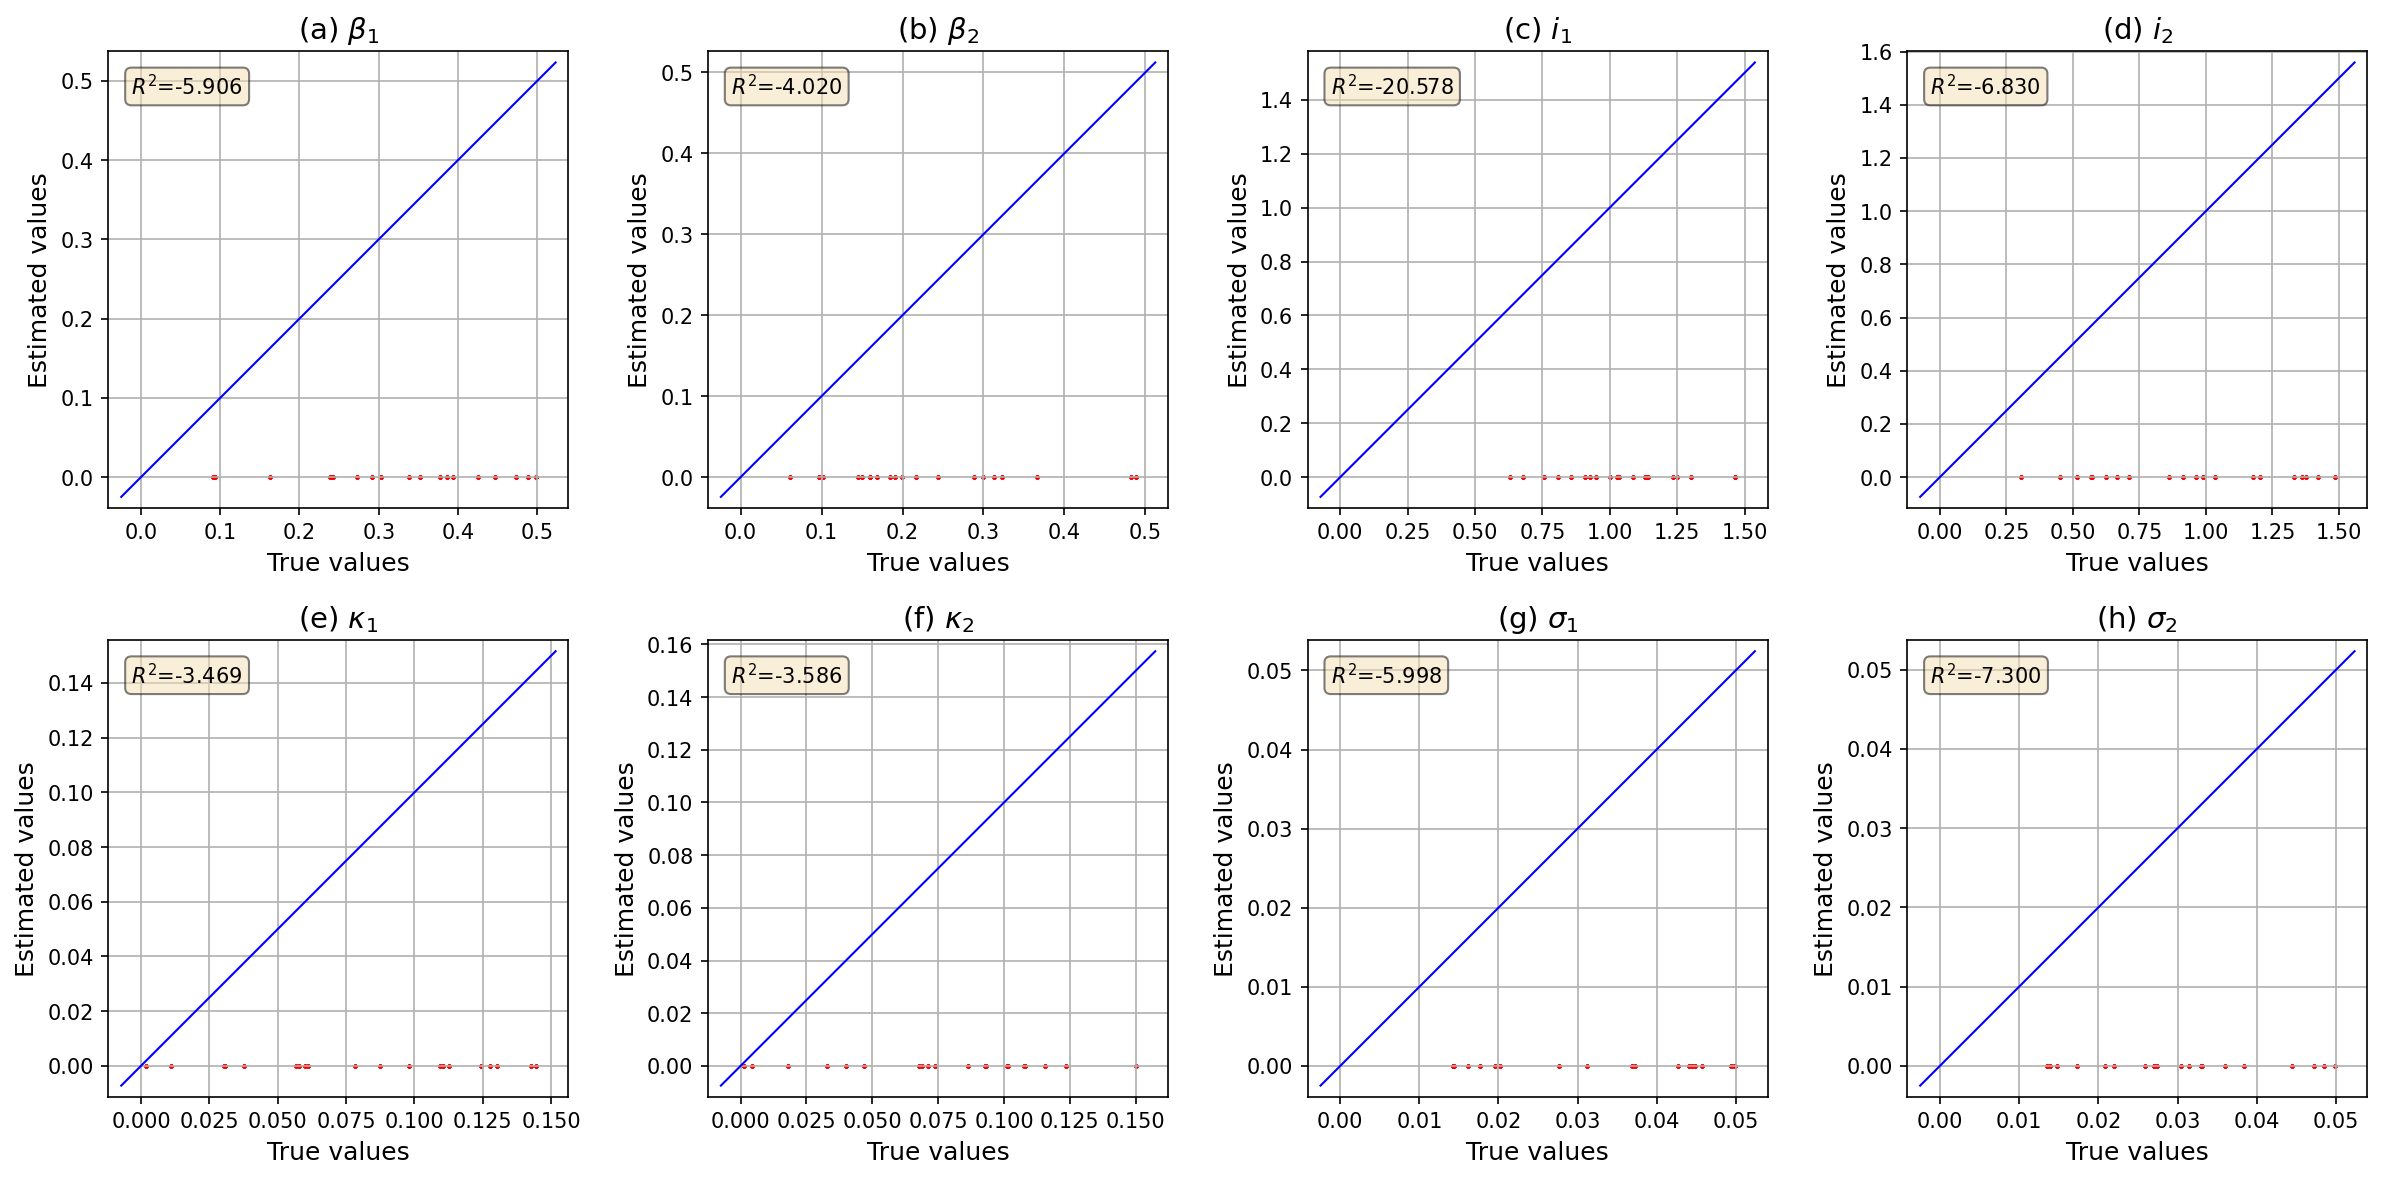
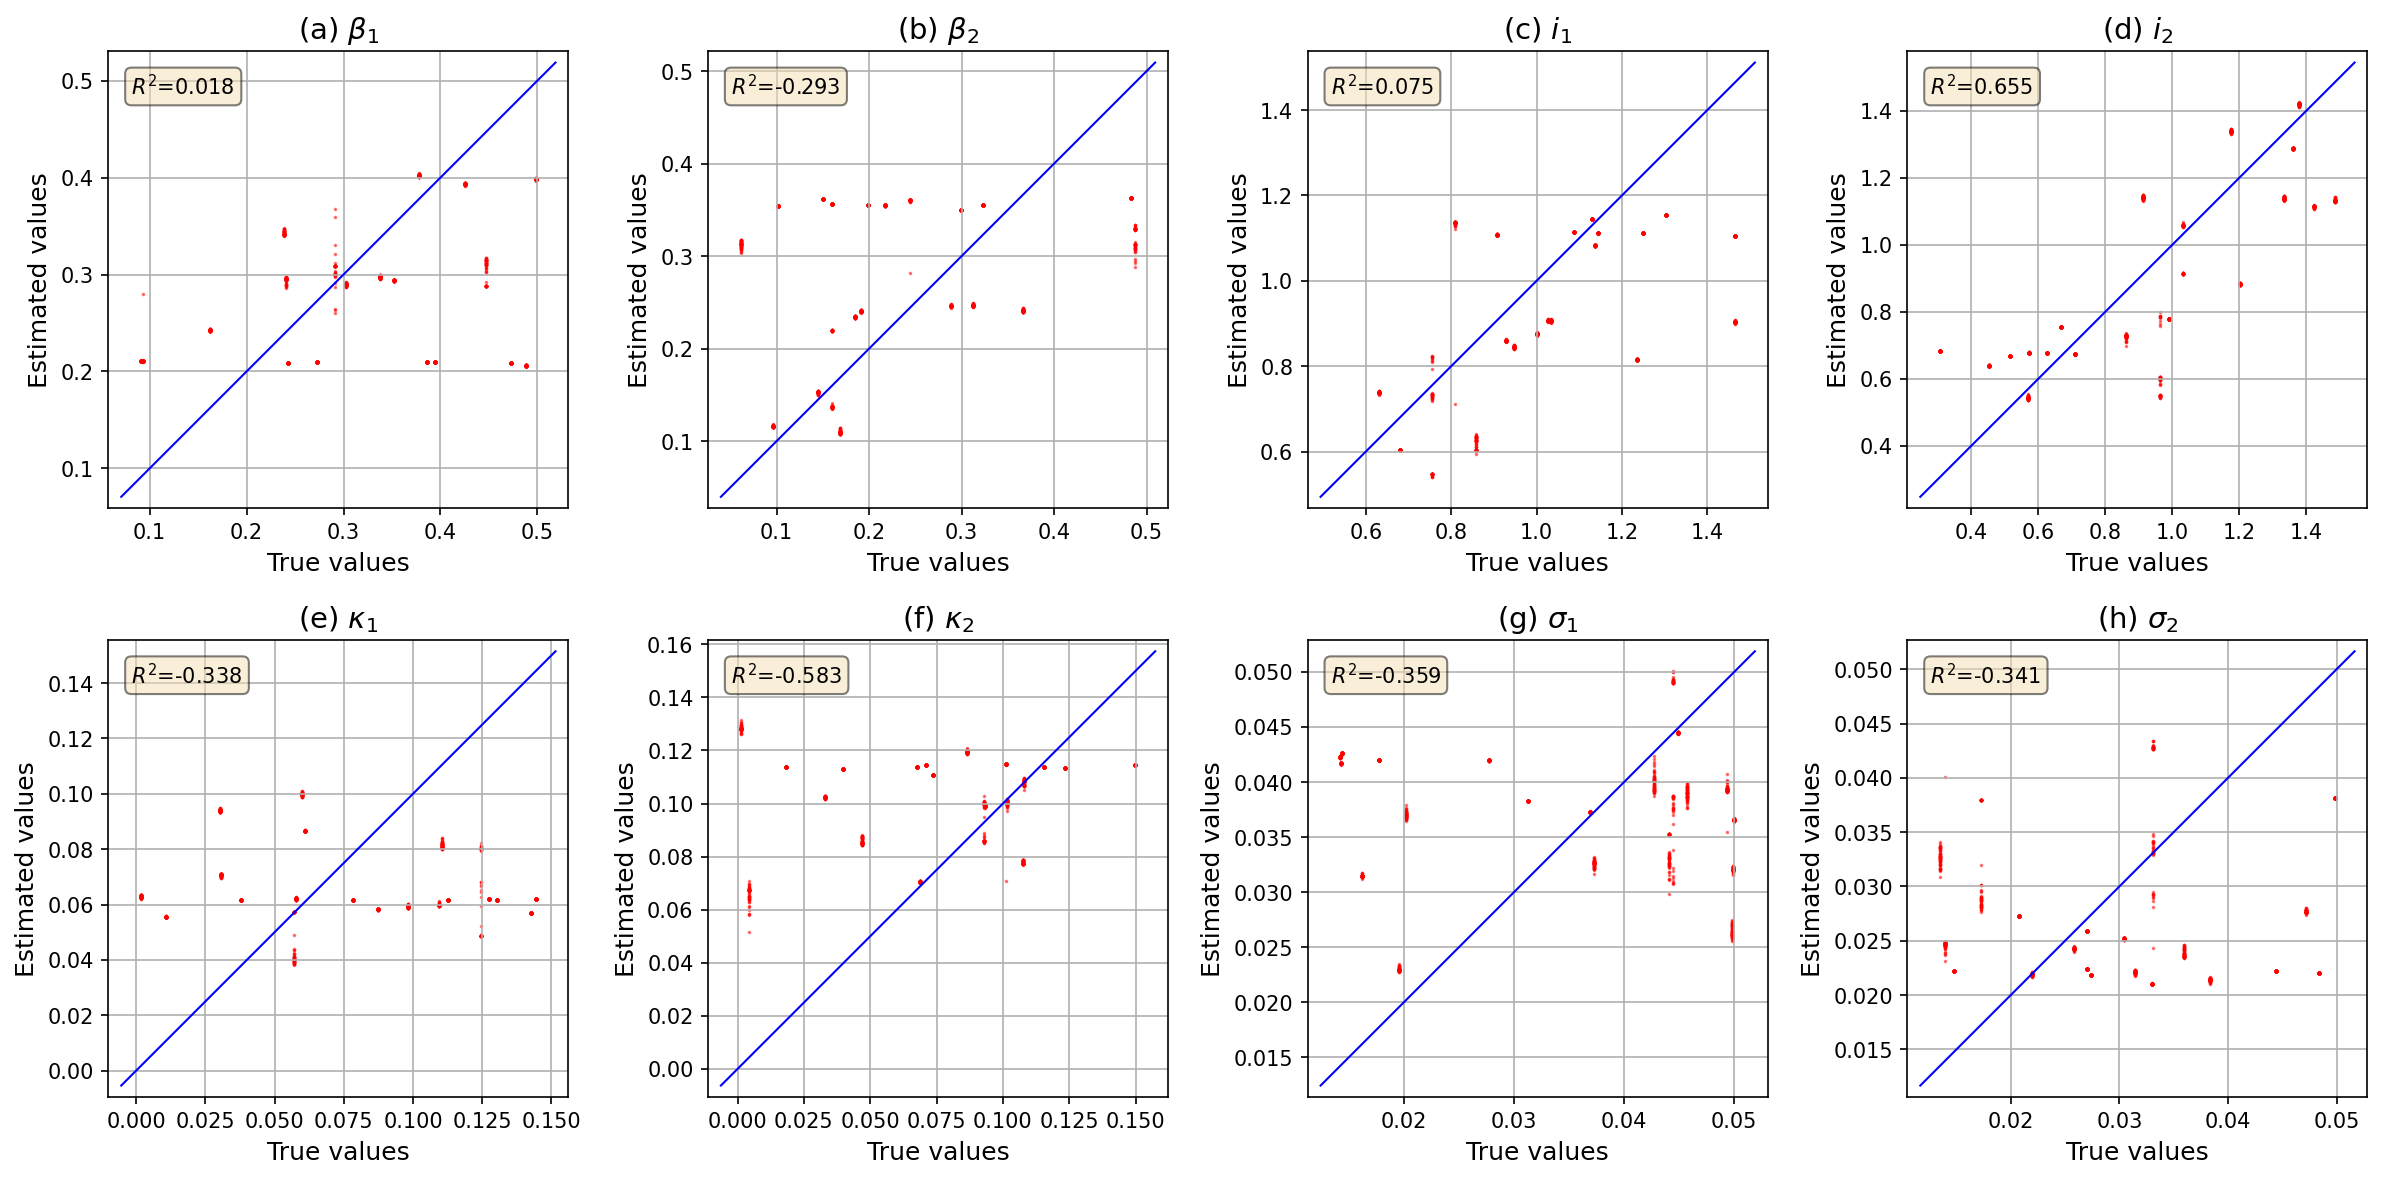
update contrastive loss and random fourier features

diff --git a/cjj_contrast/train_and_test.py b/cjj_contrast/train_and_test.py
@@ -47,60 +47,125 @@ class WeightedL1Loss(nn.Module):
 
 class SupConLoss(nn.Module):
     """
-    有监督对比学习损失 (Supervised Contrastive Loss)。
-    使用参数标签 y 来定义正样本对（相同参数配置的轨迹）和负样本对。
+    物理感知对比损失：参数越近，越倾向于拉近；
+    但动力学行为不同时，即使参数相同也推开（处理多稳态）
     """
-    def __init__(self, temperature: float = 0.1):
+    def __init__(self, temperature: float = 0.1, 
+                 param_scales: torch.Tensor = None,
+                 psd_weight: float = 0.3):
         super().__init__()
         self.temperature = temperature
-
-    def forward(self, features: torch.Tensor, labels: torch.Tensor) -> torch.Tensor:
+        self.psd_weight = psd_weight  # 功率谱特征的权重
+        
+        # 各参数的物理尺度（用于归一化距离）
+        # 例如：i∈[0,2], β∈[0,1], κ∈[0,0.2], σ∈[0,0.05]
+        self.register_buffer('param_scales', param_scales or torch.ones(1))
+        
+    def compute_kinematic_similarity(self, traj_i, traj_j):
+        """
+        计算两条轨迹的动力学相似度（0-1之间，1表示完全相同）
+        输入: [T, 4] 的轨迹 (phi1, v1, phi2, v2)
+        """
+        with torch.no_grad():  # 不梯度回传，作为软标签
+            # 1. 平均电压（Running/Trapped 态的关键区分）
+            v_mean_i = traj_i[:, [1, 3]].mean(dim=0)  # [v1_mean, v2_mean]
+            v_mean_j = traj_j[:, [1, 3]].mean(dim=0)
+            v_sim = torch.exp(-torch.norm(v_mean_i - v_mean_j) / 0.5)
+            
+            # 2. 功率谱密度相似度（Bursting/周期/混沌的区分）
+            # 使用周期图法快速估计PSD
+            psd_i = self._compute_psd(traj_i[:, [1, 3]])  # 基于电压
+            psd_j = self._compute_psd(traj_j[:, [1, 3]])
+            psd_sim = torch.exp(-torch.norm(psd_i - psd_j) / (torch.norm(psd_i) + 1e-8))
+            
+            # 3. 相位缠绕数（区分旋转与静止）
+            winding_i = self._compute_winding_number(traj_i[:, [0, 2]])
+            winding_j = self._compute_winding_number(traj_j[:, [0, 2]])
+            winding_sim = (winding_i == winding_j).float()
+            
+            # 综合相似度（可调整权重）
+            total_sim = 0.4 * v_sim + 0.4 * psd_sim + 0.2 * winding_sim
+            return total_sim
+    
+    def _compute_psd(self, voltage_signal):
+        """快速功率谱密度估计（使用FFT）"""
+        # voltage_signal: [T, 2]
+        T = voltage_signal.shape[0]
+        # Hann窗减少频谱泄漏
+        window = torch.hann_window(T, device=voltage_signal.device).unsqueeze(1)
+        signal = voltage_signal * window
+        
+        # FFT并计算功率谱
+        fft = torch.fft.rfft(signal, dim=0)
+        psd = torch.abs(fft)**2
+        # 只保留低频部分（约瑟夫森结动力学通常在特定频段）
+        return psd[:T//10].flatten()  # 取前10%频段
+    
+    def _compute_winding_number(self, phase_signal):
+        """计算相位缠绕数（检测 2π 跳变）"""
+        # phase_signal: [T, 2]
+        delta = torch.diff(phase_signal, dim=0)
+        # 检测 2π 跳变（考虑周期性）
+        jumps = torch.abs(delta) > torch.pi
+        winding = (delta / (2 * torch.pi)).sum(dim=0)
+        return torch.round(winding).abs()
+    
+    def forward(self, features: torch.Tensor, 
+                labels: torch.Tensor,
+                trajectories: torch.Tensor = None) -> torch.Tensor:
         """
         Args:
-            features: [batch_size, feature_dim] 特征向量
-            labels: [batch_size, n_params] 参数标签，用于判断正负样本对
-        Returns:
-            loss: 标量损失
+            features: [B, D] 嵌入特征
+            labels: [B, n_params] 参数标签
+            trajectories: [B, T, 4] 原始轨迹（用于计算动力学相似度）
         """
         device = features.device
         batch_size = features.shape[0]
         
-        # L2 归一化特征
         features = F.normalize(features, dim=1)
         
-        # 统一 label 形状为 [batch_size, n_params]
-        if labels.dim() > 2:
-            labels = labels.view(batch_size, -1)
-        elif labels.dim() == 2 and labels.shape[-1] == 1:
-            labels = labels.squeeze(-1)
-        
-        # 计算余弦相似度矩阵 [B, B]
-        similarity_matrix = torch.matmul(features, features.T) / self.temperature
-        
-        # 正样本 mask：参数完全相同的样本对
+        # 参数距离矩阵 [B, B]
         labels_i = labels.unsqueeze(1)  # [B, 1, n_params]
         labels_j = labels.unsqueeze(0)  # [1, B, n_params]
-        mask = torch.all(torch.abs(labels_i - labels_j) < 1e-6, dim=2).float().to(device)
+        
+        # 归一化参数距离（考虑各参数物理尺度）
+        param_diff = torch.abs(labels_i - labels_j) / self.param_scales.to(device)
+        param_dist = torch.norm(param_diff, dim=2)  # [B, B]
+        
+        # 软正样本权重：参数越近权重越高（高斯核）
+        # 但同时需要考虑动力学行为
+        if trajectories is not None:
+            # 计算动力学相似度矩阵（较慢，只在训练后期或每隔几步计算）
+            kin_sim = torch.zeros(batch_size, batch_size, device=device)
+            for i in range(batch_size):
+                for j in range(i+1, batch_size):
+                    sim = self.compute_kinematic_similarity(trajectories[i], trajectories[j])
+                    kin_sim[i, j] = sim
+                    kin_sim[j, i] = sim
+            
+            # 最终相似度权重：参数相近且动力学相似 -> 高权重正样本
+            # 参数相近但动力学不同（多稳态）-> 低权重（视为负样本）
+            mask_pos_weight = torch.exp(-param_dist / 0.1) * kin_sim
+        else:
+            # 退化为纯参数距离（训练初期使用，更快）
+            mask_pos_weight = torch.exp(-param_dist / 0.1)
+        
+        # 计算对比损失（Soft InfoNCE）
+        similarity_matrix = torch.matmul(features, features.T) / self.temperature
+        exp_sim = torch.exp(similarity_matrix)
         
         # 排除自身
-        mask_self = torch.eye(batch_size, device=device)
-        mask_pos = mask - mask_self
+        mask_self = torch.eye(batch_size, device=device).bool()
+        exp_sim = exp_sim.masked_fill(mask_self, 0)
         
-        # 计算 exp(similarity)，排除自身
-        exp_sim = torch.exp(similarity_matrix) * (1 - mask_self)
+        # 分子：加权正样本
+        pos_weighted = (exp_sim * mask_pos_weight).sum(dim=1)
         
-        # 分子：正样本的相似度之和
-        pos_sum = (exp_sim * mask_pos).sum(dim=1)
-        
-        # 分母：所有样本的相似度之和
+        # 分母：所有样本
         denom = exp_sim.sum(dim=1)
         
-        # 只对存在正样本的 anchor 计算损失
-        valid = (mask_pos.sum(dim=1) > 0).float()
-        loss = -torch.log(pos_sum / (denom + 1e-8) + 1e-8)
-        loss = (loss * valid).sum() / (valid.sum() + 1e-8)
-        
-        return loss
+        loss = -torch.log((pos_weighted + 1e-8) / (denom + 1e-8))
+        return loss.mean()
 
 
 def train(models, train_loader, optimizer=None, epochs: int = 10, 
@@ -202,6 +267,24 @@ def train(models, train_loader, optimizer=None, epochs: int = 10,
         avg_loss = total_loss / max(num_batches, 1)
         print(f"Epoch {epoch+1}/{epochs}, Average Loss: {avg_loss:.4f}")
         wandb.log({"train/regression_loss": avg_loss, "epoch": epochs + epoch})
+    
+    # 训练结束后绘制训练集上的参数预测对比图
+    extractor.eval()
+    predictor.eval()
+    train_preds = []
+    train_trues = []
+    with torch.no_grad():
+        for x, y in tqdm(train_loader, desc="Collecting train predictions"):
+            x = x.to(device)
+            features = extractor(x)
+            preds = predictor(features)
+            train_preds.append(preds.cpu())
+            train_trues.append(y.cpu())
+    
+    train_preds = torch.cat(train_preds, dim=0).numpy()
+    train_trues = torch.cat(train_trues, dim=0).numpy()
+    train_fig = plot_parameter_predictions(train_preds, train_trues, save_path="train_parameter_predictions.png")
+    wandb.log({"train_parameter_predictions": wandb.Image(train_fig)})
     
     return extractor, predictor
 

diff --git a/cjj_contrast/models.py b/cjj_contrast/models.py
@@ -47,6 +47,31 @@ class PositionalEncoding(nn.Module):
         return self.dropout(x)
 
 
+class FourierFeatureEncoder(nn.Module):
+    def __init__(self, n_frequencies=32):
+        super().__init__()
+        
+        # 对相位变量使用随机傅里叶特征
+        self.B = (torch.randn(2, n_frequencies) * 2 * torch.pi).cuda()  # 2个相位
+        
+    def forward(self, traj):
+        phi = traj[..., [0, 2]].cuda()  # phi1, phi2
+        v = traj[..., [1, 3]].cuda()    # v1, v2
+        
+        # print(traj.shape)
+        # print(phi.shape)
+        
+        # Fourier嵌入: [sin(2π B phi), cos(2π B phi)]
+        mul = phi @ self.B
+        phi_proj = torch.cat([torch.sin(mul), 
+                              torch.cos(mul)], dim=-1)
+        
+        # print(phi_proj.shape)
+        # print(torch.cat([phi_proj, v], dim=-1).shape)
+        
+        # 与电压拼接后送入Transformer
+        return torch.cat([phi_proj, v], dim=-1)
+
 class FeatureExtractor(nn.Module):
     """
     FeatureExtractor
@@ -70,9 +95,10 @@ class FeatureExtractor(nn.Module):
 
         # Part 1: Transformer Encoder with Positional Encoding
         # 输入投影层：将 in_dim 映射到 hidden_dim
-        self.conv1 = nn.Conv1d(4, in_dim, kernel_size=3, stride=2, padding=0)
-        self.bn = nn.BatchNorm1d(in_dim)
-        self.input_projection = nn.Linear(in_dim, hidden_dim)
+        self.fourier_feature = FourierFeatureEncoder().cuda()
+        self.conv1 = nn.Conv1d(66, in_dim, kernel_size=3, stride=2, padding=0).cuda()
+        self.bn = nn.BatchNorm1d(in_dim).cuda()
+        self.input_projection = nn.Linear(in_dim, hidden_dim).cuda()
         
         # 位置编码
         self.pos_encoder = PositionalEncoding(hidden_dim, max_len=5000, dropout=dropout)
@@ -95,8 +121,8 @@ class FeatureExtractor(nn.Module):
         # Layer Normalization (Transformer 后的归一化)
         self.layer_norm = nn.LayerNorm(hidden_dim)
         
-        input_t = torch.randn((1, 2000, 4))
-        x_conv = self.input_projection(self.conv1(input_t.transpose(1, 2).float()).transpose(1, 2))
+        input_t = torch.randn((1, 2000, 4)).cuda()
+        x_conv = self.input_projection(self.conv1(self.fourier_feature(input_t).transpose(1, 2).float()).transpose(1, 2))
         t_dim = x_conv.shape[1] * x_conv.shape[2]
         self.down_proj = nn.Linear(t_dim, out_dim)
         
@@ -133,7 +159,7 @@ class FeatureExtractor(nn.Module):
         # 1. 输入投影: [batch, seq_len, in_dim] -> [batch, seq_len, hidden_dim]
         
         b, l, c = x.shape
-        x_conv = self.bn(self.conv1(x.transpose(1, 2).float()))
+        x_conv = self.bn(self.conv1(self.fourier_feature(x).transpose(1, 2).float()))
         x_input = self.input_projection(x_conv.transpose(1, 2))
         
         # 2. 添加位置编码

diff --git a/cjj_contrast/main.py b/cjj_contrast/main.py
@@ -11,7 +11,7 @@ wandb.init(project="cjj-contrast", name="contrast+regression")
 train_loader, test_loader = create_dataloaders(batchsize=32)
 
 # 初始化 FeatureExtractor
-extractor = FeatureExtractor(in_dim=16, hidden_dim=64, n_layer=5, out_dim=128)
+extractor = FeatureExtractor(in_dim=64, hidden_dim=64, n_layer=5, out_dim=128)
 predictor = ParamPredictor(in_dim=128, hid_dim=128, n_params=8)
 
 # 对比学习训练
